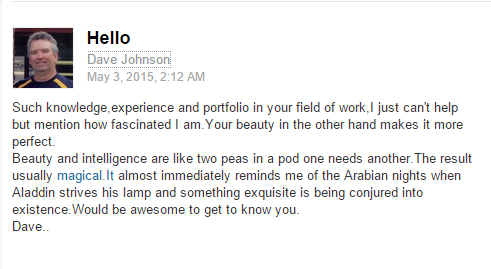
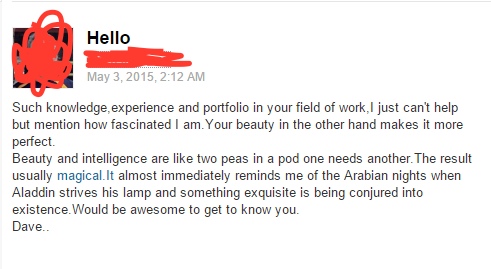
hiding

Changed region(s): [[0.0, 0.0297, 0.3971, 0.3569]]

diff --git a/_posts/2015-05-27-dave-johnson-aladdins-cave.md b/_posts/2015-05-27-dave-johnson-aladdins-cave.md
@@ -1,13 +1,13 @@
 ---
 layout: post
-title: Dave Johnson wants to look into Aladdin’s Cave
+title: Creeper wants to look into Aladdin’s Cave
 categories:
 - 
 tags:
 - 
 ---
 
-This creeper, one Mr Dave Johnson thinks this poster's beauty compliments her
+This creeper thinks this poster's beauty compliments her
 business skill sets perfectly.
 
 ![Dave Johnson](/img/cave.png)

diff --git a/_posts/2015-08-20-dorian-ansari.md b/_posts/2015-08-20-dorian-ansari.md
@@ -1,9 +1,9 @@
 ---
 layout: post
-title: Dorian Ansari
+title: Exquisite
 ---
 
-Dorian Ansari gets straight to the point;
+This creeper gets straight to the point;
 
 ![Dorian Ansari]({{ site.baseurl }}/img/dorian_ansari.png)
 
